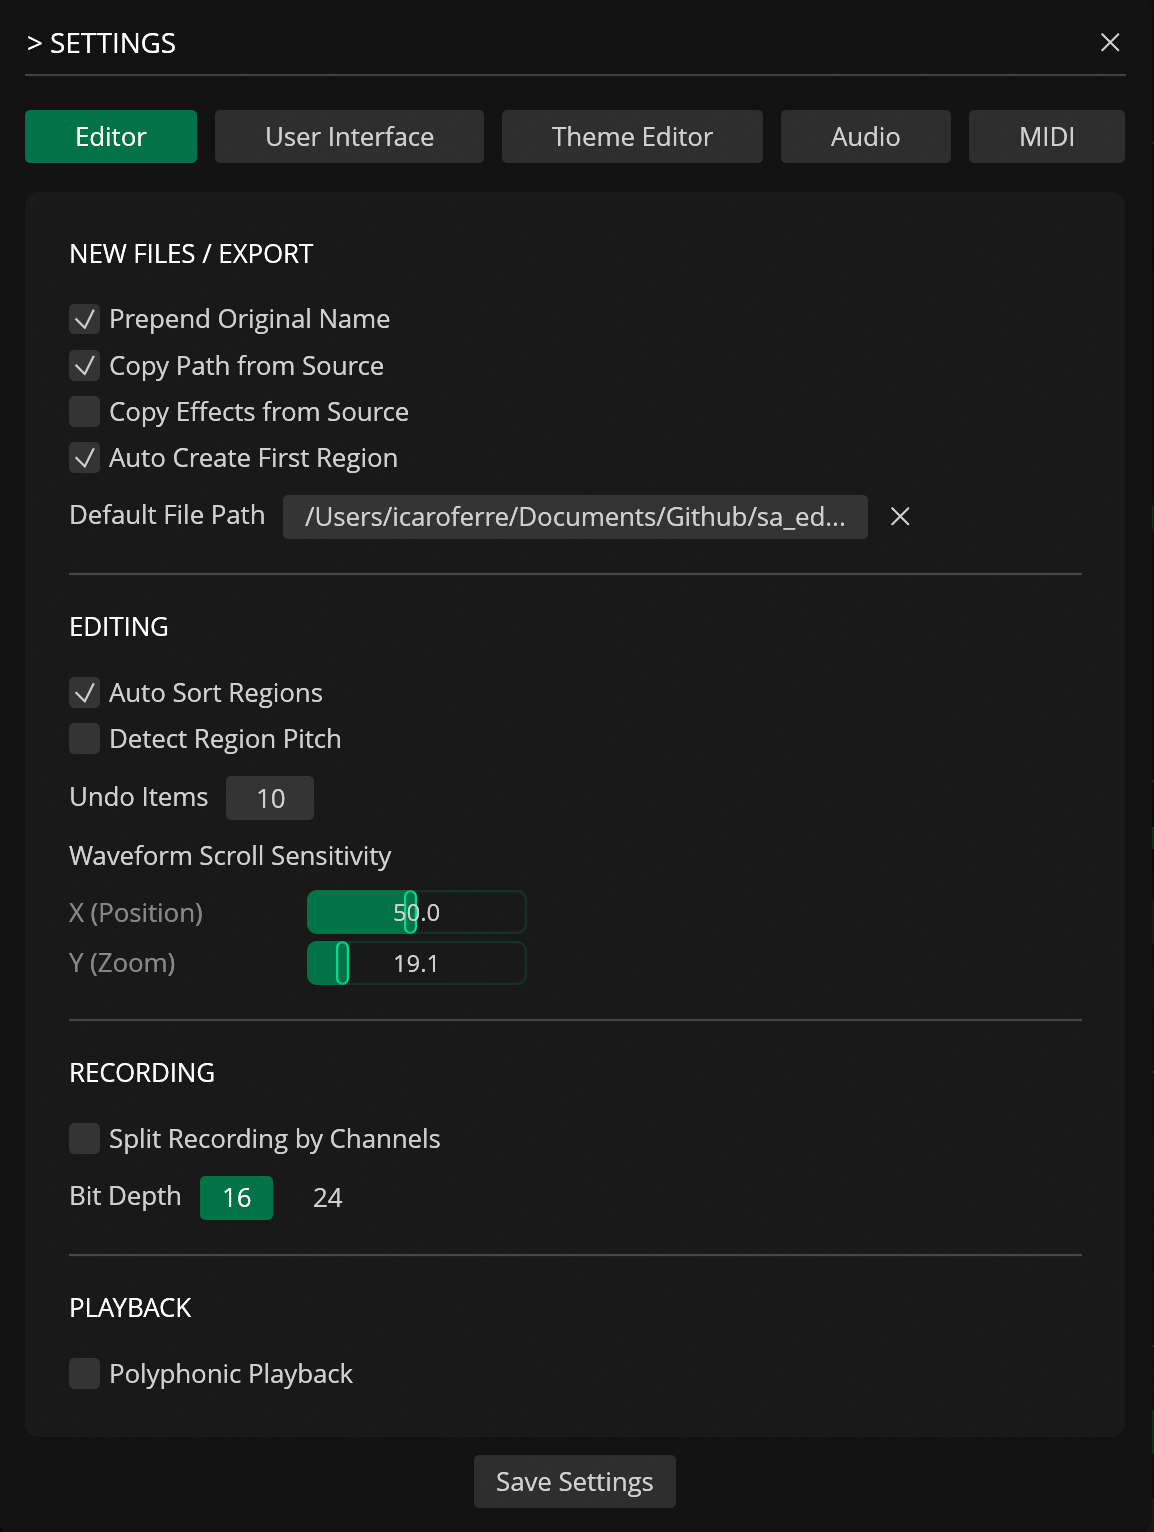
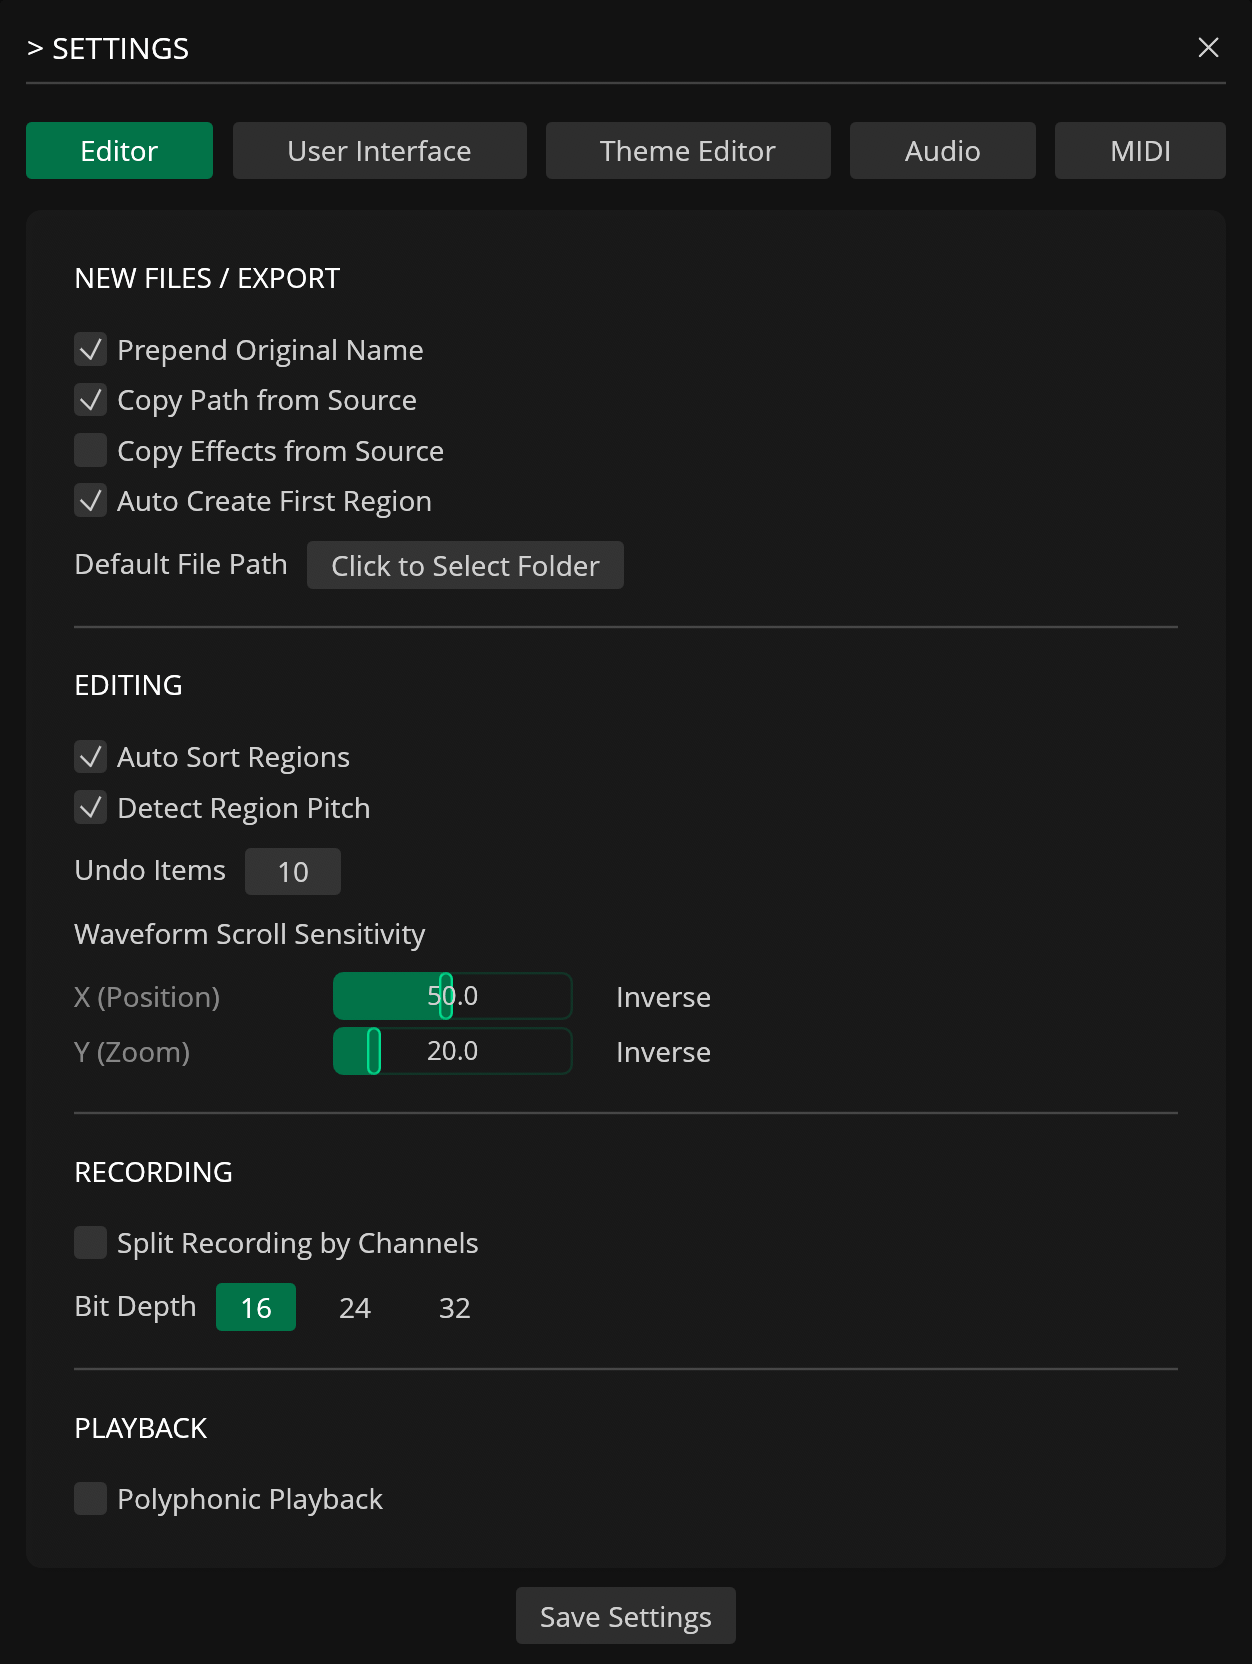
Version 1.0.1

diff --git a/docs/settings.md b/docs/settings.md
@@ -16,28 +16,32 @@
 | Default File Path           | Set the default path for new audio recordings                                         |
 | **EDITING**                 |                                                                                       |
 | Detect Region Pitch         | Automatically detect the pitch of newly created or edited regions                     |
-| Undo Items                  | Set the maximum undo items per file (5-100)                                           |
+| Undo Items                  | Set the maximum undo items per file (5-100) *                                       |
 | Waveform Scroll Sensitivity | Set the mouse scroll sensitivity (horizontal = X, vertical = Y)                       |
-| X (Position)                | Horizontal mouse scroll sensitivity                                           |
-| Y (Zoom)                    | Vertical mouse scroll sensitivity                                             |
+| X (Position)                | Horizontal mouse scroll sensitivity                                                   |
+| Inverse                     | Inverse horizontal scrolling                                                          |
+| Y (Zoom)                    | Vertical mouse scroll sensitivity                                                     |
+| Inverse                     | Inverse vertical scrolling                                                            |
 | **RECORDING**               |                                                                                       |
 | Split Recording by Channels | Split each input channel into separate tracks/regions when recording                  |
-| Bit Depth                   | Set the recording bit depth (16-bit or 24-bit)                                        |
+| Bit Depth                   | Set the recording bit depth (16 / 24 / 32 bits)                                       |
 | **PLAYBACK**                |                                                                                       |
 | Polyphonic Playback         | Allow overlapping playback of multiple regions/voices (polyphonic playback)           |
+
 
 ## User Interface
 
 ![User Interface Settings](../assets/images/settings-userinterface.png)
 
-| Name                   | Description                                                                     |
-|------------------------|----------------------------------------------------------------------------------|
-| Show Regions           | Default: show region in waveform view                                            |
-| Show Transients        | Default: show transient markers in waveform view                                 |
-| Show Zoom              | Default: show zoom controls in the waveform view                                 |
-| Show Waveform Controls | Default: show waveform control elements (play/pause/other controls)              |
+| Name                   | Description                                                                            |
+|------------------------|----------------------------------------------------------------------------------------|
+| Show Regions           | Default: show region in waveform view                                                  |
+| Show Transients        | Default: show transient markers in waveform view                                       |
+| Show Zoom              | Default: show zoom controls in the waveform view                                       |
+| Show Waveform Controls | Default: show waveform control elements (play/pause/other controls)                    |
 | Show Region Controls   | Default: show region control elements (play/pause/other controls) in the Regions panel |
-| Waveform Mode          | Choose waveform display mode (Bars or Line)                                      |
+| Waveform Mode          | Choose waveform display mode (Bars or Line)                                            |
+| Waveform Glow          | Toggle the background glow for the waveform (Bar mode)                                 |
 
 ## Theme Editor
 

diff --git a/docs/userinterface.md b/docs/userinterface.md
@@ -311,13 +311,14 @@ The selected regions determine which audio will be exported when an export actio
 
 The center panel contains a table where each row defines one export configuration with the following columns:
 
-| Column | Control | Description |
-|--------|---------|-------------|
-| **#** | Auto-numbered | Row index |
-| **Format** | Drop-down selector | Choose between **WAV** and **AIFF** |
-| **Sample Rate** | Drag value input | Set sample rate from 1 to 192,000 Hz |
-| **Bit Depth** | Drag value input | Set bit depth from 1 to 24 bits |
-| **Suffix** | Text input | File name suffix appended before the extension (default hint: `_{bitDepth}_{sampleRate/1000}`) |
+| Column          | Control            | Description                                                                                    |
+|-----------------|--------------------|------------------------------------------------------------------------------------------------|
+| **#**           | Auto-numbered      | Row index                                                                                      |
+| **Format**      | Drop-down selector | Choose between **WAV** and **AIFF**                                                            |
+| **Sample Rate** | Drag value input   | Set sample rate from 1 to 192,000 Hz                                                           |
+| **Bit Depth**   | Drag value input   | Set bit depth from 1 to 24 bits                                                                |
+| **Float**       | Checkbox           | Export as floating-point audio file                                                            |
+| **Suffix**      | Text input         | File name suffix appended before the extension (default hint: `_{bitDepth}_{sampleRate/1000}`) |
 
 Each row can be removed individually using the remove button (:phosphor-x:) on the right.
 

diff --git a/docs/changelog.md b/docs/changelog.md
@@ -1,0 +1,30 @@
+# Change-log
+
+---
+
+## Recorte 1.01 
+
+### Added
+- [Audio] Added 32-bit recording
+- [Editor] Added resize options (0.5x / 2x) to the waveform display's context menu (right-click)
+- [Settings]: Added new Waveform Glow toggle
+
+### Improved
+- [UI] Waveform Display: Improved zoom range
+- [UI] Waveform Display: Fixed scroll / panning when zoomed in 
+- [UI] Waveform Display: Zoom now anchors to mouse / pointer
+- [Audio] Process Preview: Added fade to prevent clicks / pops
+
+### Fixed
+- [Audio] Fixed 32-bit (floating point) importing and exporting
+- [Editor] Fixed Copy Selection action when zoomed in
+- [UI] Double clicking a parameter causes the slider and UI to expand and overflow
+- [UI] Fixed slider width when resizing (shrinking) the window.
+- [UI] UI: Fixed the visibility of the Clear and Change Path buttons
+- [UI] Waveform Display: Fixed bug that would cause the waveform to dissappear when zoomed in
+
+---
+
+## Recorte 1.0
+
+Initial Release

diff --git a/docs/index.md b/docs/index.md
@@ -19,5 +19,5 @@ Recorte is available for macOS (Silicon & Intel), Windows (x64) and Linux.
 
 **Product Page:** [https://spektroaudio.com/recorte](https://spektroaudio.com/recorte)
 
-**Current Version:** 1.0
+**Current Version:** 1.0.1
 
